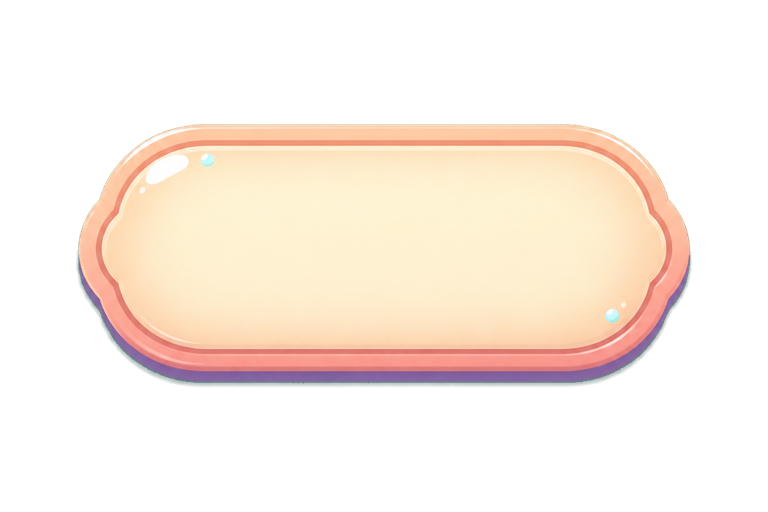
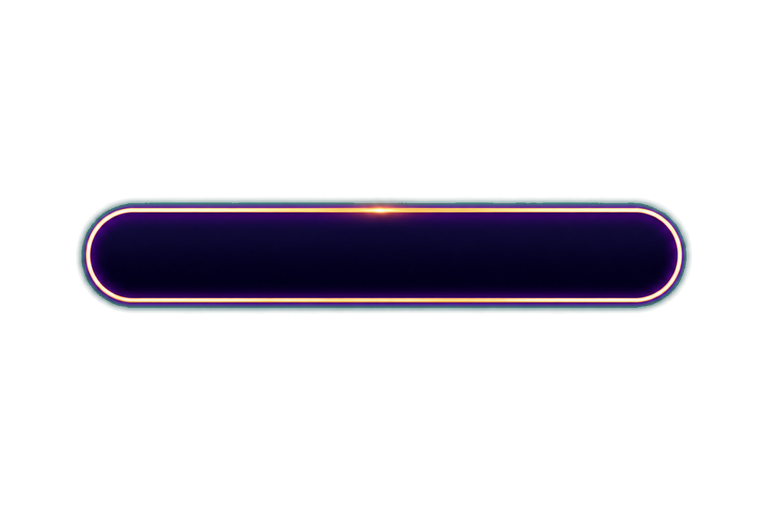
Refine chatting phase 5 visual direction

diff --git a/lib/thumbnail-editor.ts b/lib/thumbnail-editor.ts
@@ -383,18 +383,18 @@ export const thumbnailPresets: ThumbnailPreset[] = [
     accent: "#36aaff",
     layers: [
       assetBackgroundLayer("画像 1（背景）", `${thumbnailPhase5BackgroundAssetPrefix}chatting-background-v1.png`),
-      assetDecorationLayer({ name: "画像 2（やわらかい光粒）", src: `${thumbnailPhase5DecorationAssetPrefix}chatting-soft-glow-dots-uniform-cell.png`, x: 60, y: 50, width: 560, height: 373, opacity: 0.36 }),
-      shapeLayer({ name: "図形 4（やわらかい下線）", shapeType: "line", x: 104, y: 548, width: 452, height: 18, fillColor: "#efb36f", strokeColor: "#efb36f", strokeWidth: 4, borderRadius: 12, opacity: 0.5 }),
-      shapeLayer({ name: "図形 3（立ち絵挿入ガイド）", shapeType: "frame", x: 762, y: 76, width: 398, height: 556, fillColor: "#fff3df10", strokeColor: "#fff0db", strokeWidth: 2, borderRadius: 78, opacity: 0.36 }),
-      assetDecorationLayer({ name: "画像 3（ラベル土台）", src: `${thumbnailPhase5DecorationAssetPrefix}chatting-label-plaque-cozy-uniform-cell.png`, x: 54, y: 10, width: 436, height: 291, opacity: 0.96 }),
-      textLayer({ name: "テキスト 4（ラベル）", text: "CHATTING / YouTube", x: 132, y: 100, width: 282, height: 32, fontSize: 25, color: "#1d1830", strokeWidth: 0, shadowColor: "#ffffff", shadowBlur: 3, shadowOffsetX: 0, shadowOffsetY: 1, fontFamily: "Oswald", align: "center" }),
-      textLayer({ name: "テキスト 1（見出し）", text: "ゆるっと\n雑談配信", x: 84, y: 164, width: 620, height: 252, fontSize: 101, lineHeight: 1.02, color: "#fffaf2", strokeColor: "#251431", strokeWidth: 10, shadowColor: "#df8f58", shadowBlur: 14, shadowOffsetX: 4, shadowOffsetY: 5 }),
-      assetDecorationLayer({ name: "画像 4（時刻バッジ土台）", src: `${thumbnailPhase5DecorationAssetPrefix}chatting-time-badge-cozy-uniform-cell.png`, x: 18, y: 384, width: 592, height: 395, opacity: 0.94 }),
-      shapeLayer({ name: "図形 5（時刻アイコン外円）", shapeType: "circle", x: 126, y: 510, width: 38, height: 38, fillColor: "#00000000", strokeColor: "#f3c17c", strokeWidth: 4, borderRadius: 0, opacity: 0.9 }),
-      shapeLayer({ name: "図形 6（時刻アイコン短針）", shapeType: "line", x: 144, y: 519, width: 2, height: 20, rotation: -90, fillColor: "#f3c17c", strokeColor: "#f3c17c", strokeWidth: 4, borderRadius: 4, opacity: 0.92 }),
-      shapeLayer({ name: "図形 7（時刻アイコン長針）", shapeType: "line", x: 148, y: 530, width: 16, height: 2, fillColor: "#f3c17c", strokeColor: "#f3c17c", strokeWidth: 4, borderRadius: 4, opacity: 0.92 }),
-      textLayer({ name: "テキスト 2（時刻）", text: "21:00 START", x: 188, y: 506, width: 320, height: 52, fontSize: 45, color: "#fff4df", strokeColor: "#20142c", strokeWidth: 3, shadowColor: "#000000", shadowBlur: 8, shadowOffsetX: 3, shadowOffsetY: 4 }),
-      textLayer({ name: "テキスト 3（サブ）", text: "今日の話題を一緒に整理しよう", x: 94, y: 604, width: 590, height: 44, fontSize: 30, color: "#fff8ee", strokeColor: "#140b21", strokeWidth: 3, shadowBlur: 7, shadowOffsetX: 2, shadowOffsetY: 3 })
+      assetDecorationLayer({ name: "画像 2（やわらかい光粒）", src: `${thumbnailPhase5DecorationAssetPrefix}chatting-soft-glow-dots-uniform-cell.png`, x: 48, y: 76, width: 520, height: 347, opacity: 0.28 }),
+      shapeLayer({ name: "図形 4（やわらかい下線）", shapeType: "line", x: 92, y: 610, width: 474, height: 14, fillColor: "#efb36f", strokeColor: "#efb36f", strokeWidth: 3, borderRadius: 10, opacity: 0.58 }),
+      shapeLayer({ name: "図形 3（立ち絵挿入ガイド）", shapeType: "frame", x: 762, y: 92, width: 358, height: 528, fillColor: "#fff3df0c", strokeColor: "#fff0db", strokeWidth: 2, borderRadius: 120, opacity: 0.28 }),
+      assetDecorationLayer({ name: "画像 3（ラベル土台）", src: `${thumbnailPhase5DecorationAssetPrefix}chatting-label-plaque-cozy-uniform-cell.png`, x: 58, y: 10, width: 360, height: 162, opacity: 0.96 }),
+      textLayer({ name: "テキスト 4（ラベル）", text: "CHATTING / YouTube", x: 118, y: 80, width: 250, height: 28, fontSize: 22, color: "#fff8ef", strokeWidth: 0, shadowColor: "#20142c", shadowBlur: 3, shadowOffsetX: 0, shadowOffsetY: 1, fontFamily: "Oswald", align: "center" }),
+      textLayer({ name: "テキスト 1（見出し）", text: "ゆるっと\n雑談配信", x: 86, y: 150, width: 640, height: 268, fontSize: 105, lineHeight: 1.03, color: "#fffaf2", strokeColor: "#251431", strokeWidth: 10, shadowColor: "#df8f58", shadowBlur: 15, shadowOffsetX: 4, shadowOffsetY: 5 }),
+      assetDecorationLayer({ name: "画像 4（時刻バッジ土台）", src: `${thumbnailPhase5DecorationAssetPrefix}chatting-time-badge-cozy-uniform-cell.png`, x: 42, y: 420, width: 510, height: 168, opacity: 0.94 }),
+      shapeLayer({ name: "図形 5（時刻アイコン外円）", shapeType: "circle", x: 118, y: 486, width: 38, height: 38, fillColor: "#00000000", strokeColor: "#f3c17c", strokeWidth: 4, borderRadius: 0, opacity: 0.9 }),
+      shapeLayer({ name: "図形 6（時刻アイコン短針）", shapeType: "line", x: 136, y: 495, width: 2, height: 20, rotation: -90, fillColor: "#f3c17c", strokeColor: "#f3c17c", strokeWidth: 4, borderRadius: 4, opacity: 0.92 }),
+      shapeLayer({ name: "図形 7（時刻アイコン長針）", shapeType: "line", x: 140, y: 506, width: 16, height: 2, fillColor: "#f3c17c", strokeColor: "#f3c17c", strokeWidth: 4, borderRadius: 4, opacity: 0.92 }),
+      textLayer({ name: "テキスト 2（時刻）", text: "21:00 START", x: 178, y: 482, width: 320, height: 52, fontSize: 47, color: "#fff4df", strokeColor: "#20142c", strokeWidth: 3, shadowColor: "#000000", shadowBlur: 8, shadowOffsetX: 3, shadowOffsetY: 4 }),
+      textLayer({ name: "テキスト 3（サブ）", text: "今日の話題を一緒に整理しよう", x: 94, y: 574, width: 590, height: 44, fontSize: 30, color: "#fff8ee", strokeColor: "#140b21", strokeWidth: 3, shadowBlur: 7, shadowOffsetX: 2, shadowOffsetY: 3 })
     ]
   },
   {

diff --git a/task.md b/task.md
@@ -826,6 +826,8 @@
   - UI確認: static outputを `localhost:3031` で配信し、Playwrightで `雑談` presetを適用。390 / 820 / 1024 / 1280 / 1366px でcanvas非blank、horizontal overflow 0を確認。1024px以上ではPhase 5背景 / 個別asset / shape layer / editable text layerがレイヤー一覧に残ることを確認した。追加した Phase 5 asset request の404はなし。1024px以上では Next static export のRSC prefetch `__next...txt?_rsc=` 404がconsole errorとして出たが、追加assetの読み込み失敗ではない。pixel sampling時のみChromeのCanvas readback warningが出る
   - 確認スクリーンショット: `output/playwright/phase5-chatting-final-390.png` / `phase5-chatting-final-820.png` / `phase5-chatting-final-1024.png` / `phase5-chatting-final-1280.png` / `phase5-chatting-final-1366.png`
   - Canvas export確認: `output/playwright/phase5-chatting-canvas-static-clean-1280x720.png`
+  - 追加調整: user確認後、元モックのほうが夜の部屋感とサムネ完成度が高かったため、Phase 5構造は維持したまま背景を暗めの室内奥行きへ再生成し、ラベル土台を細いカプセルへ差し替えた。時刻バッジ、見出し、サブ、右立ち絵guideも元モック寄りに縮めて再配置した。背景には引き続き読める文字、ロゴ、人物、キャラクター、実画面、SNS UI、人物シルエットを入れていない
+  - 追加検証: `node scripts/thumbnail-phase5-chatting-preset-contract.mjs` PASS、`npm run build` PASS、static output `localhost:3033` で1366px spot checkを行い、canvas非blank、horizontal overflow 0、1024px以上のレイヤー残存、追加asset 404なしを確認した
 - 2026-05-09 Phase 5 `コラボ` preset:
   - 作業前に PR #46 `[codex] Renew game live thumbnail phase 5 preset` が `main` に merge済みで、`origin/main` が merge commit `84160c9d317bebb2c47ef78411ad0e6c1de29959` を指すことを確認した
   - `codex/thumbnail-phase5-collaboration-preset` branch / `.worktrees/thumbnail-phase5-collaboration-preset` worktree で実装した

diff --git a/docs/active/THUMBNAIL_EDITOR_PHASE4_POLISH_REVIEW.md b/docs/active/THUMBNAIL_EDITOR_PHASE4_POLISH_REVIEW.md
@@ -389,6 +389,11 @@ Phase 5 は単なる配置微調整ではなく、プリセット構造を「完
 - 背景: `public/assets/images/thumbnail-editor/phase5/chatting-background-v1.png`
   - 既存 `chatting-background.png` / `chatting-mock.png` の落ち着いた暖色、右側の立ち絵余白、トーク向けのやわらかい光を参照し、Phase 5背景として再生成した。
   - 背景assetには読める文字、ロゴ、人物、キャラクター、実画面、SNS UI、ラベル文字、時刻文字は入れていない。
+- 追加調整:
+  - 初回Phase 5背景は明るいパネル感が強く、元モックの夜の部屋感と奥行きが弱かったため、背景を暗めの室内、ペンダントライト、窓のbokeh、右側の差し替え余白へ寄せて再生成した。
+  - 背景には人物、キャラクター、顔、体、人物シルエット、読める文字、SNS UI、実画面は入れていない。
+  - ラベル土台は大きいステッカー風から、元モックに近い細いカプセルへ差し替えた。
+  - 時刻バッジ、見出し、サブ、右立ち絵guideは、Phase 5構造を維持したまま元モック寄りに縮めて再配置した。
 - 個別asset: `public/assets/images/thumbnail-editor/decorations/phase5/`
   - `chatting-label-plaque-cozy-uniform-cell.png`
   - `chatting-time-badge-cozy-uniform-cell.png`
